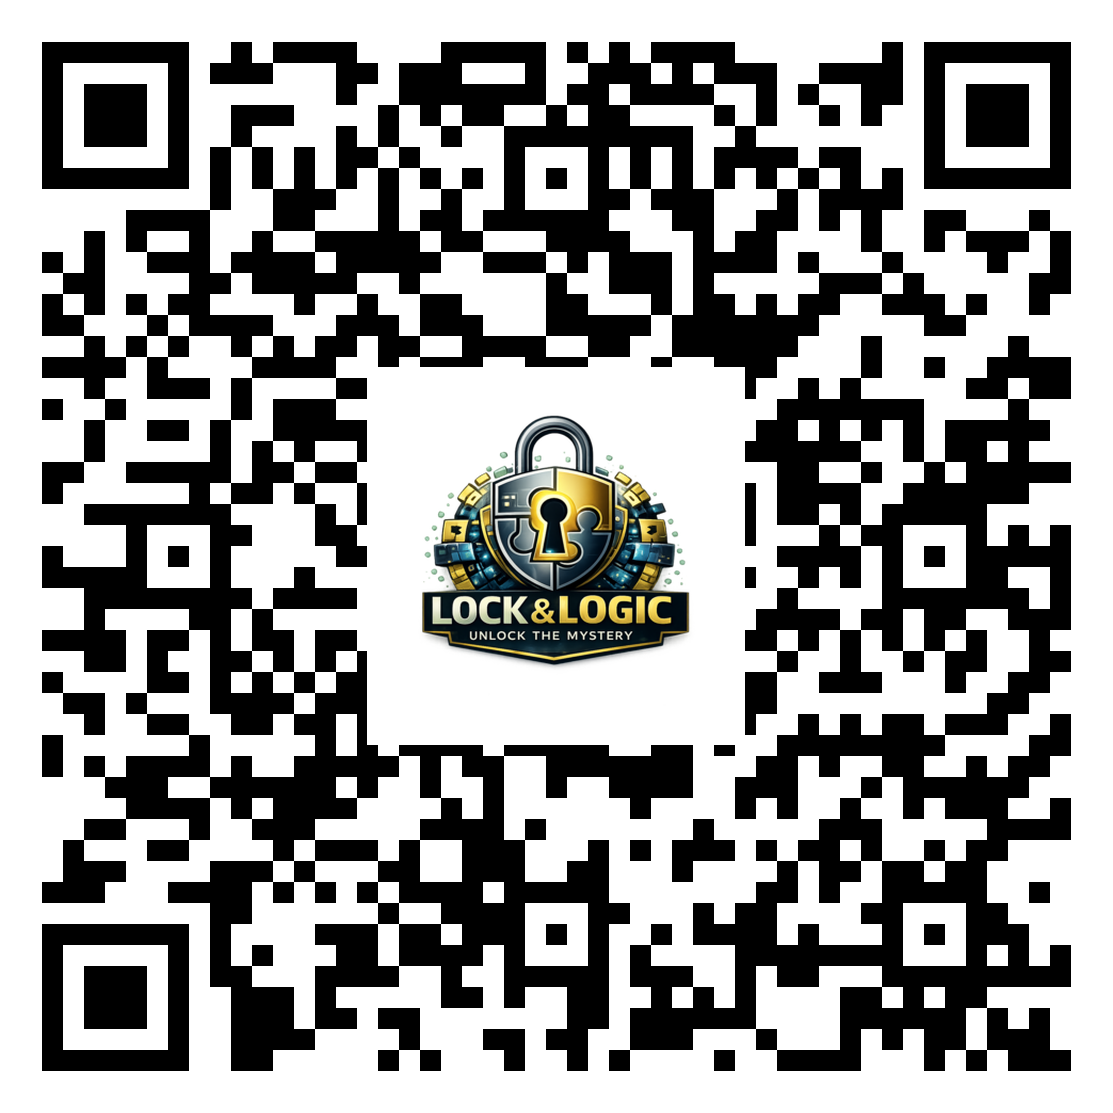
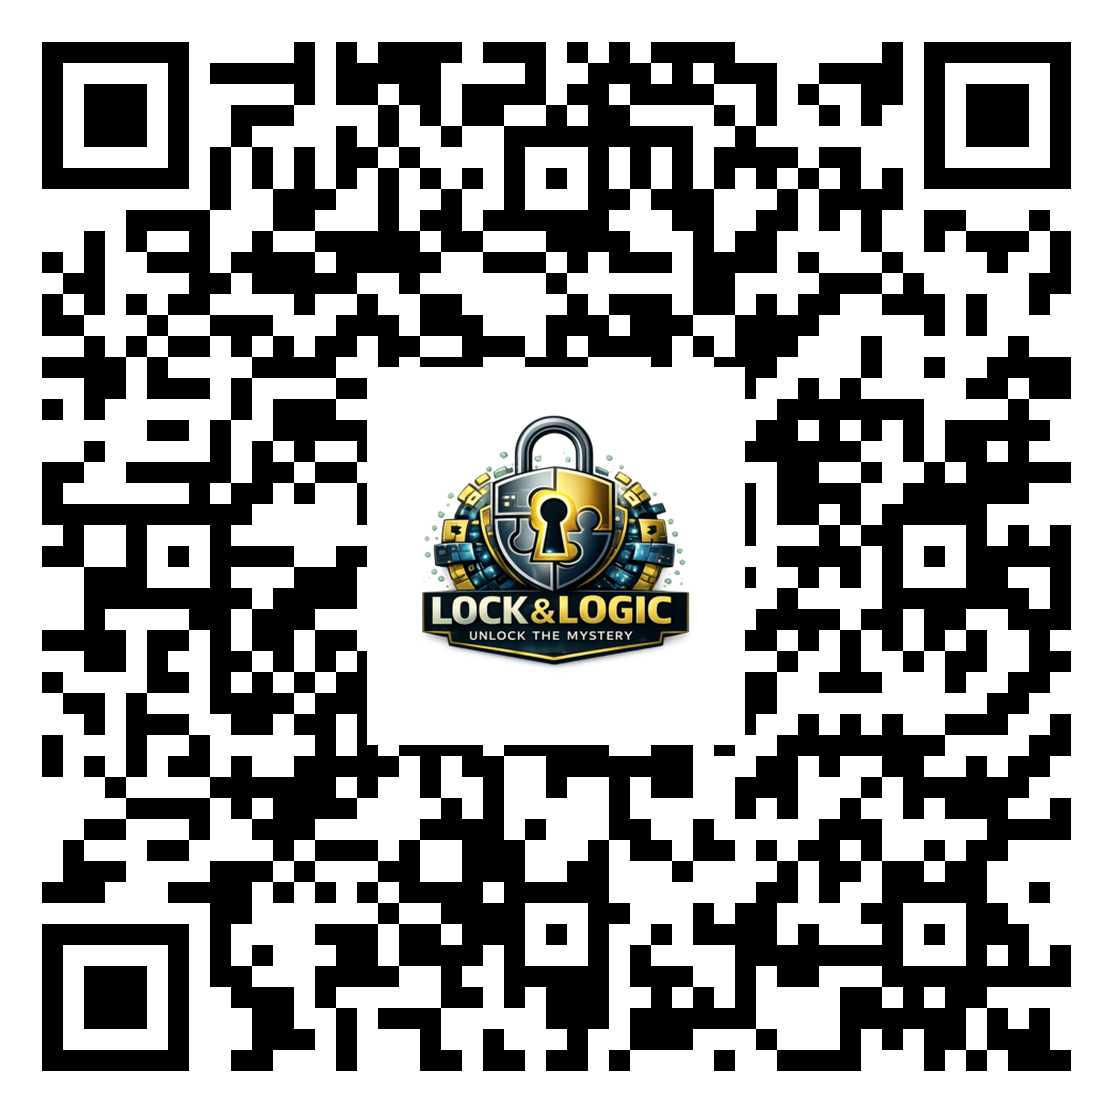
Correct the review link to Google's canonical one
The link I derived from search markup pointed at CRITHPZ8tMVdEBM; the
Review link in the profile's own "Get more reviews" panel is
CRITHPZ8tMVdEAI. Regenerated the code and documented where to find the
authoritative link so it can be re-checked.

Claude-Session: https://claude.ai/code/session_01X5Y1H4wWCmoqh76PgQhTAx

diff --git a/docs/qr-campaigns.md b/docs/qr-campaigns.md
@@ -63,10 +63,12 @@ For the founders' business cards. Scans land on the homepage.
 | Detail | Value |
 |--------|-------|
 | **Purpose** | Collecting Google reviews |
-| **Links to** | `https://g.page/r/CRITHPZ8tMVdEBM/review` |
+| **Links to** | `https://g.page/r/CRITHPZ8tMVdEAI/review` |
 | **Tracking** | None — see below |
 
 Scanning this opens the star-rating box on your Google listing directly, with the review form already up. No searching for the business, no hunting through Maps — which is exactly why it converts better than telling people to "look us up on Google."
+
+The link is Google's own, not one we built. To see it yourself: search your business name while signed in to the business account, then click **Get your first review** (later it reads *Get more reviews*) in the panel on the right. The **Review link** box there is the authoritative source — if it ever differs from the link above, Google's wins and the code should be regenerated.
 
 ::: warning Reviews won't work until the doors actually open
 Scan it before opening day and Google answers *"Posting is currently turned off — our policies do not permit contributions to this type of place."* That's expected, and the code is not broken. Google won't accept reviews for a business whose listing still says "Opens Sat Sep 19," because nobody can have visited yet.
